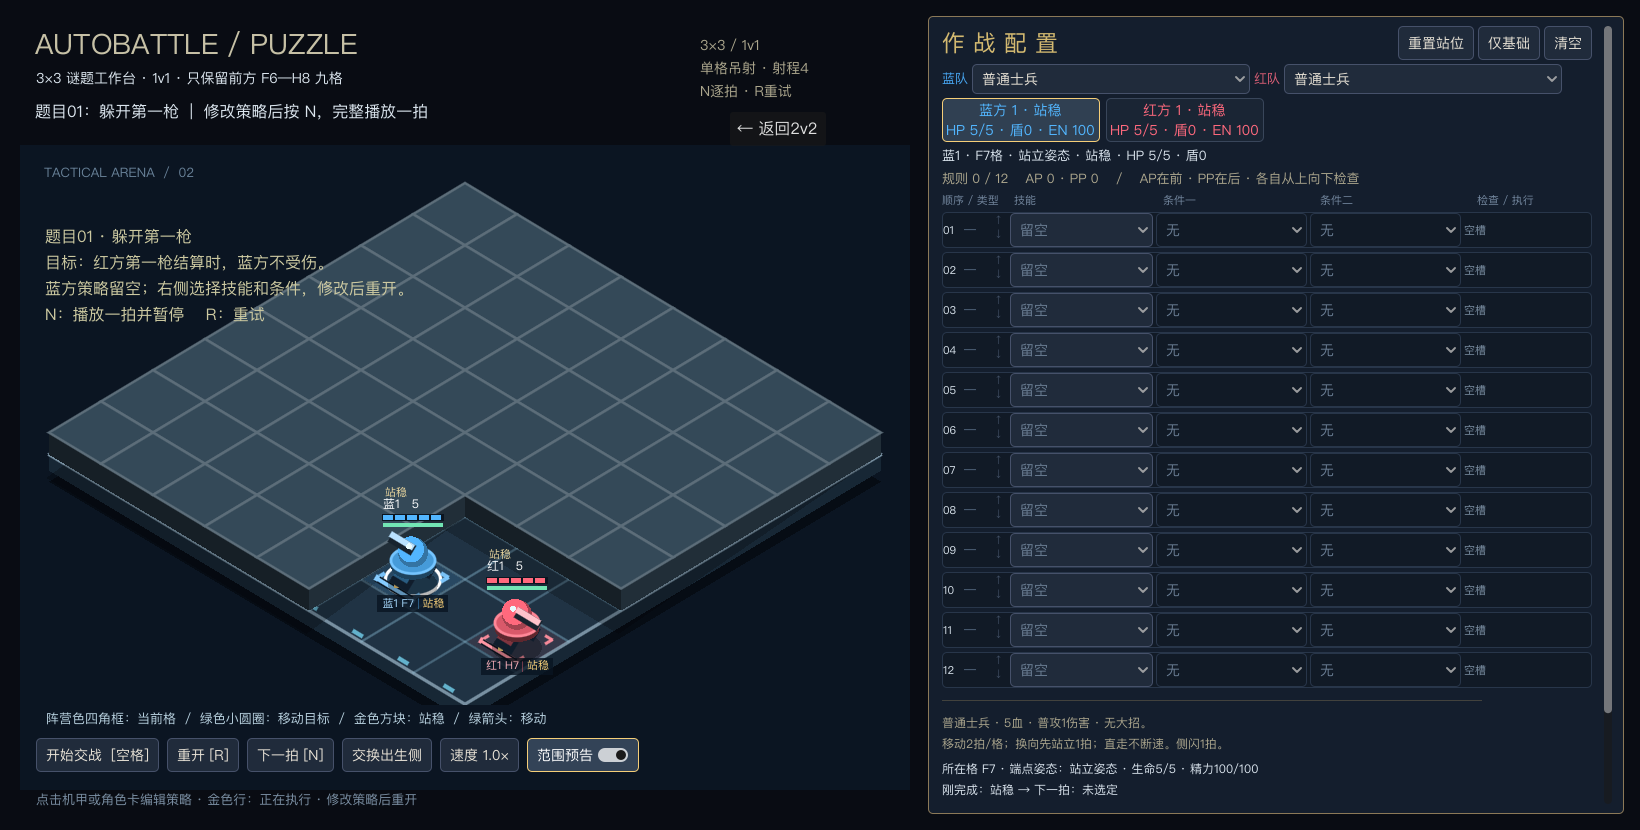
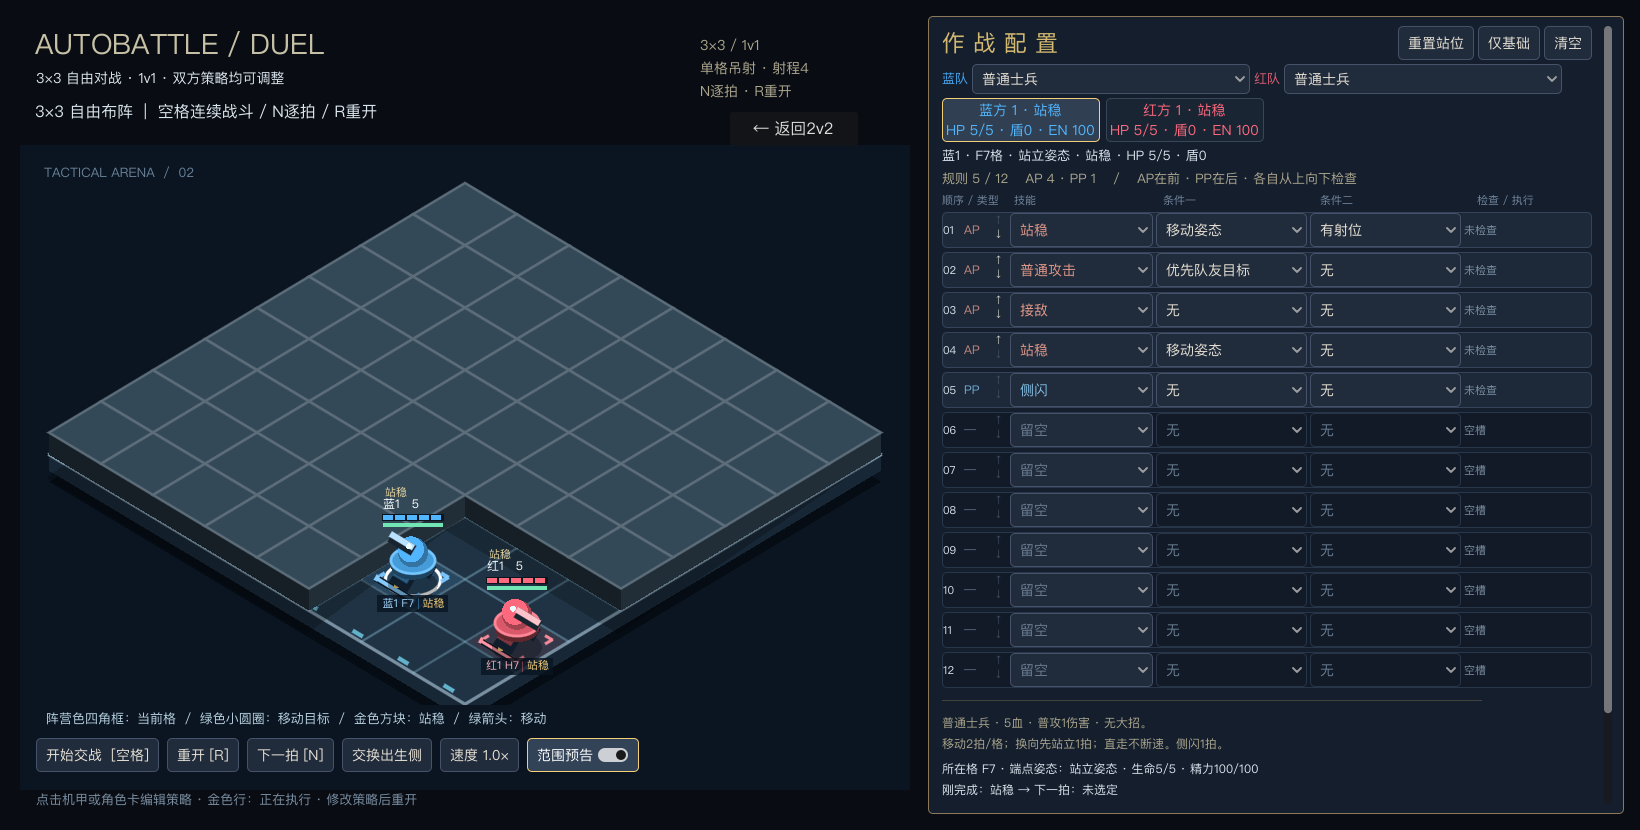
移除3x3谜题判定，恢复双方可配置的自由对战

diff --git a/README.md b/README.md
@@ -1,12 +1,12 @@
 # AutoBattle — 2.5D 小队竞技场
 
-## 当前默认：3×3 谜题工作台
+## 当前默认：3×3 自由对战
 
 默认打开 `puzzle_arena.tscn`：只保留离观众最近的 F6—H8 九格，其余55格用整格墙体封住。蓝红各一台普通士兵，普攻为单格吊射，曼哈顿射程4格、可越墙，当前九格全在射程内。点击角色可编辑策略，N逐拍播放并在交点结算后暂停。
 
-首题“躲开第一枪”：蓝方策略留空，红方配置普通射击；第一枪实际结算后检查蓝方是否保持5血，并暂停显示结果。修改蓝方策略后重开，可观察PP侧闪带来的变化。双方站位都可在九格内调整。
+没有谜题目标、判题或首枪暂停。双方默认使用相同普通士兵配置，可编辑AP/PP和九格内的站位；空格连续战斗，N逐拍，R重开。记录胜负后也继续运行。
 
-旧2v2仍在 `beat_arena.tscn`，右上“返回2v2”可切回，2v2中也能进入谜题。保存点标签 `arena-2v2-before-puzzles` 对应开始谜题前的完整版本。`--puzzle-test` 验证地图、1v1和空配置失败/侧闪成功；`--puzzle-preview` 生成 `reports/puzzle-preview.png`。旧 `--beat-test` 与其它节拍预览参数会自动进入2v2场景运行。
+旧2v2仍在 `beat_arena.tscn`，右上“返回2v2”可切回，2v2中也能进入3×3自由对战。保存点标签 `arena-2v2-before-puzzles` 对应开始谜题前的完整版本。`--small-arena-test` 验证地图、1v1与首枪后持续战斗；`--small-arena-preview` 生成 `reports/puzzle-preview.png`。旧 `--beat-test` 与其它节拍预览参数会自动进入2v2场景运行。
 
 ## 当前实验：8×8 节拍战斗
 
